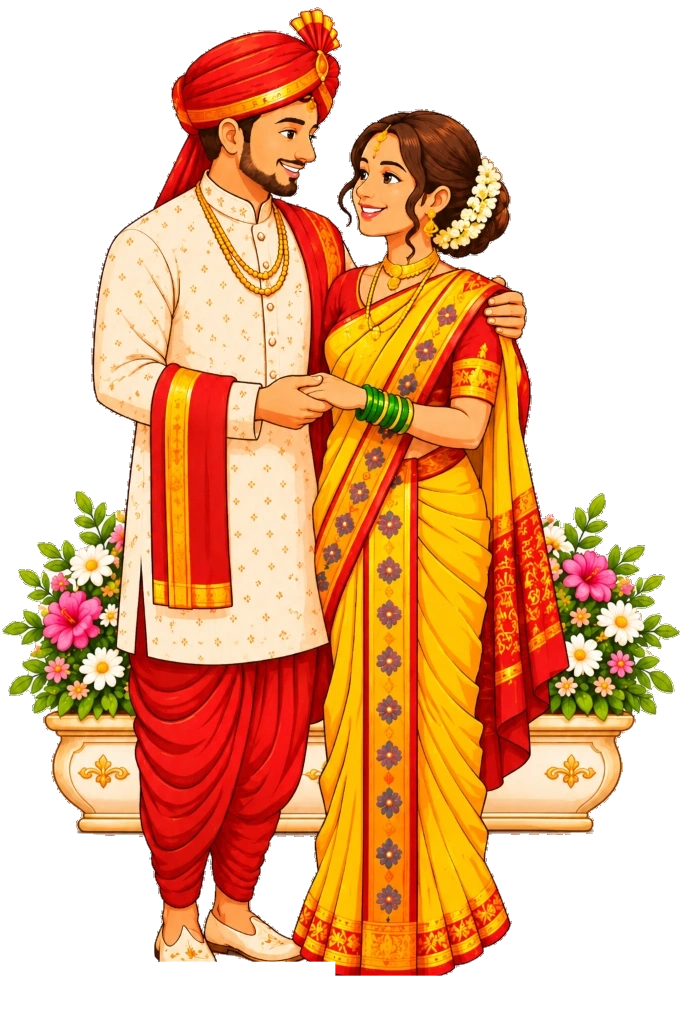
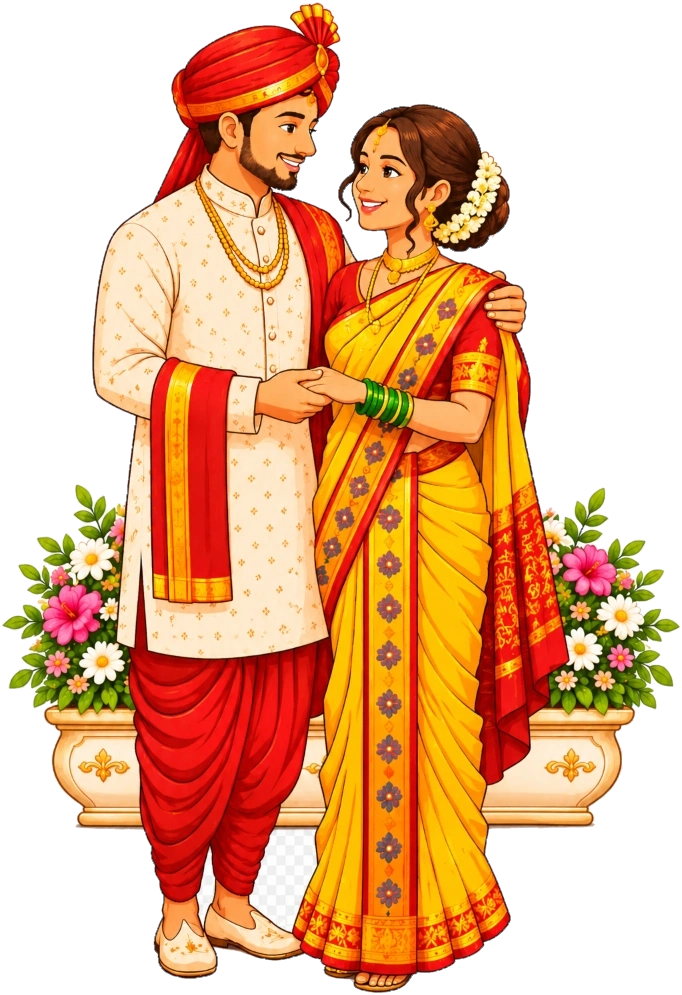
optimize

diff --git a/css/style.css b/css/style.css
@@ -138,7 +138,7 @@ button { cursor: pointer; border: none; background: none; font-family: var(--ser
 .eyebrow { font-size: clamp(.78rem, 3.0cqw, .92rem); letter-spacing: .24em; text-transform: uppercase; color: #9C7330; font-weight: 600; text-shadow: 0 1px 1px rgba(255, 255, 255, 0.95); }
 .eyebrow.devanagari { font-family: 'Noto Serif Devanagari', var(--deva); font-size: clamp(0.95rem, 3.4cqw, 1.12rem); letter-spacing: 0.03em; text-transform: none; font-weight: 700; color: #966D26; }
 .hero-eyebrow { font-family: var(--cinzel); font-size: clamp(.80rem, 3.3cqw, 1.00rem); letter-spacing: .18em; text-transform: uppercase; color: #966D26; font-weight: 600; line-height: 1.5; text-shadow: 0 1px 1px rgba(255, 255, 255, 0.95); margin: 0.05rem 0 0.35rem; }
-.hero-eyebrow.devanagari { font-family: 'Noto Serif Devanagari', 'Tiro Devanagari Marathi', var(--deva); font-size: clamp(0.82rem, 3.2cqw, 1.05rem); letter-spacing: 0.015em; text-transform: none; font-weight: 600; color: #8A5E1E; margin-bottom: 0.45rem; width: 100%; max-width: 100%; display: flex; flex-direction: column; align-items: center; }
+.hero-eyebrow.devanagari { font-family: 'Noto Serif Devanagari', 'Tiro Devanagari Marathi', var(--deva); font-size: clamp(0.96rem, 3.6cqw, 1.18rem); letter-spacing: -0.01em; text-transform: none; font-weight: 600; color: #8A5E1E; margin-bottom: 0.45rem; width: 100%; max-width: 100%; display: flex; flex-direction: column; align-items: center; }
 .hero-eyebrow.devanagari .eyebrow-line { display: block; white-space: nowrap; line-height: 1.6; text-align: center; }
 
 .hero-names { font-family: var(--serif); font-size: clamp(2.9rem, 13.0cqw, 4.5rem); letter-spacing: .01em; color: #631622; font-weight: 600; line-height: 1.05; margin: 0.2rem 0 0.45rem; display: flex; flex-direction: column; align-items: center; text-shadow: 0 1px 2px rgba(255, 255, 255, 0.95); }
@@ -253,11 +253,11 @@ button { cursor: pointer; border: none; background: none; font-family: var(--ser
   .lotus-divider { width: 100px !important; }
   .shloka-box { height: auto !important; min-height: 2.5rem !important; margin: 0.08rem auto 0.15rem !important; }
   .shloka-text { height: 1.45em !important; font-size: clamp(0.82rem, 3.2vw, 0.94rem) !important; line-height: 1.5 !important; white-space: nowrap !important; }
-  .couple-card { width: clamp(270px, 84vw, 360px) !important; max-width: 92% !important; max-height: clamp(330px, 53vh, 450px) !important; margin: 0.55rem auto 0 !important; transform: translateY(clamp(8px, 2.0vh, 16px)) !important; }
+  .couple-card { width: clamp(270px, 84vw, 360px) !important; max-width: 92% !important; max-height: clamp(330px, 53vh, 450px) !important; margin: 0.55rem auto 0 !important; transform: translateY(clamp(4px, 1.2vh, 8px)) !important; overflow: visible !important; }
   .couple-card .couple-art { width: auto !important; max-width: 100% !important; max-height: clamp(330px, 53vh, 450px) !important; height: auto !important; filter: none !important; -webkit-mask-image: none !important; mask-image: none !important; }
   .scroll-cue-btn { bottom: 0.45rem !important; font-size: clamp(0.82rem, 3.2vw, 0.92rem) !important; white-space: nowrap !important; letter-spacing: 0.02em !important; z-index: 15 !important; text-shadow: 0 1px 3px rgba(255, 255, 255, 0.95), 0 0 10px rgba(255, 255, 255, 0.9) !important; }
   .crest-shree { font-size: 1.02rem !important; }
-  .hero-eyebrow.devanagari { font-size: clamp(0.72rem, 3.25vw, 0.90rem) !important; letter-spacing: 0.01em !important; line-height: 1.55 !important; width: 100% !important; max-width: 100% !important; }
+  .hero-eyebrow.devanagari { font-size: clamp(0.88rem, 3.65vw, 1.05rem) !important; letter-spacing: -0.01em !important; line-height: 1.6 !important; width: 100% !important; max-width: 100% !important; }
   .hero-eyebrow.devanagari .eyebrow-line { display: block !important; white-space: nowrap !important; text-align: center !important; }
   .hero-calligraphy-wrap { margin: 0.25rem 0 0.45rem !important; }
   .hero-calligraphy-img { max-width: clamp(180px, 56vw, 235px) !important; }
@@ -290,9 +290,9 @@ button { cursor: pointer; border: none; background: none; font-family: var(--ser
   .cover-date-section { margin-top: 0.25rem !important; }
   .date-clean-box { padding: 0.40rem 1.5rem !important; }
   .date-clean-text { font-size: 1.05rem !important; }
-  .couple-card { max-height: clamp(295px, 48vh, 350px) !important; width: min(285px, 86vw) !important; margin: 0.45rem auto 0 !important; transform: translateY(clamp(6px, 1.6vh, 12px)) !important; }
+  .couple-card { max-height: clamp(295px, 48vh, 350px) !important; width: min(285px, 86vw) !important; margin: 0.45rem auto 0 !important; transform: translateY(clamp(3px, 1.0vh, 6px)) !important; overflow: visible !important; }
   .couple-card .couple-art { max-height: clamp(295px, 48vh, 350px) !important; filter: none !important; -webkit-mask-image: none !important; mask-image: none !important; }
-  .hero-eyebrow.devanagari { font-size: clamp(0.68rem, 3.1vw, 0.82rem) !important; }
+  .hero-eyebrow.devanagari { font-size: clamp(0.82rem, 3.4vw, 0.96rem) !important; }
 }
 
 @media (min-width: 601px) {
@@ -310,7 +310,7 @@ button { cursor: pointer; border: none; background: none; font-family: var(--ser
   .date-clean-text { font-size: 1.08rem; letter-spacing: 0.18em; margin-left: 0.18em; }
   .enter-ceremony-btn { bottom: 3.4rem; padding: 0.62rem 1.75rem 0.58rem; font-size: 1.00rem; white-space: nowrap; letter-spacing: 0.03em; display: inline-flex; align-items: center; justify-content: center; line-height: 1; }
   .stage-landing { justify-content: center !important; padding: 0.8rem 1.6rem 2.0rem !important; }
-  .couple-card { width: clamp(270px, 72cqw, 360px) !important; max-height: clamp(350px, 50vh, 460px) !important; margin: 0.25rem auto 0.4rem !important; transform: none !important; }
+  .couple-card { width: clamp(270px, 72cqw, 360px) !important; max-height: clamp(350px, 50vh, 460px) !important; margin: 0.25rem auto 0.4rem !important; transform: none !important; overflow: visible !important; }
   .couple-card .couple-art { width: auto !important; max-width: 100% !important; max-height: clamp(350px, 50vh, 460px) !important; height: auto !important; filter: none !important; -webkit-mask-image: none !important; mask-image: none !important; }
   .ganpati-icon { width: clamp(96px, 28cqw, 142px); }
   .ganpati-title { font-size: clamp(1.15rem, 4.2cqw, 1.35rem); }

diff --git a/index.html b/index.html
@@ -17,9 +17,9 @@
   <link rel="preload" as="image" href="assets/couple-calligraphy-sec3.webp?v=3" type="image/webp">
   <link rel="preload" as="image" href="https://ik.imagekit.io/greenspire/invitation/main-bg.avif" fetchpriority="high">
   <link rel="preload" as="image" href="https://ik.imagekit.io/greenspire/invitation/ganpati-logo.avif">
-  <link rel="preload" as="image" href="assets/couple.webp?v=2" type="image/webp">
+  <link rel="preload" as="image" href="assets/couple.webp?v=3" type="image/webp">
   <link href="https://fonts.googleapis.com/css2?family=Cinzel:wght@400;600;700;800&family=Cormorant+Garamond:ital,wght@0,400;0,600;0,700;1,400&family=Eczar:wght@700;800&family=Great+Vibes&family=Italianno&family=Kalam:wght@700&family=Martel:wght@700;800;900&family=Noto+Serif+Devanagari:wght@400;600;700;800;900&family=Rozha+One&family=Tiro+Devanagari+Marathi:ital@0;1&family=Yatra+One&display=block" rel="stylesheet">
-  <link rel="stylesheet" href="css/style.css?v=168">
+  <link rel="stylesheet" href="css/style.css?v=169">
 
   <style>
     .stage-cover:not(.is-revealed) .cover-content,
@@ -56,8 +56,9 @@
 
             <div class="cover-tagline-text devanagari">
               <p>आयुष्याच्या नव्या पर्वाला सुरुवात करताना,</p>
-              <p>आपल्या स्नेहपूर्ण उपस्थितीने व शुभाशिर्वादांनी</p>
-              <p>हा मंगल सोहळा अधिक संस्मरणीय करावा, ही नम्र विनंती.</p>
+              <p>आपल्या स्नेहपूर्ण उपस्थितीने व शुभाशीर्वादांनी</p>
+              <p>हा मंगल सोहळा अधिक संस्मरणीय करावा,</p>
+              <p>ही नम्र विनंती.</p>
             </div>
 
             <div class="cover-date-section" id="coverDateSection">
@@ -93,8 +94,8 @@
 
             <div class="couple-card">
               <picture>
-                <source srcset="assets/couple.webp?v=2" type="image/webp">
-                <img src="assets/couple.png?v=2" alt="गौरव आणि स्वरदा" class="couple-art" width="682" height="1024" loading="eager" decoding="async">
+                <source srcset="assets/couple.webp?v=3" type="image/webp">
+                <img src="assets/couple.png?v=3" alt="गौरव आणि स्वरदा" class="couple-art" width="682" height="995" loading="eager" decoding="async">
               </picture>
             </div>
           </div>
